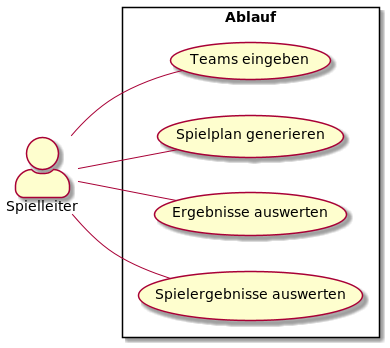
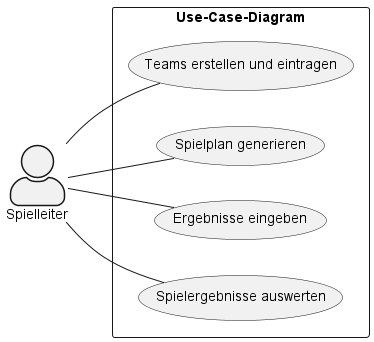
pelzeder-readme-überarbeitet

diff --git a/README.md b/README.md
@@ -1,29 +1,49 @@
+# LeoCompetition 
+
+## Turnierverwaltung ohne Papier
+
+![alt test](/asciidocs/images/Leocompfrontend.png)
+
+LeoCompetition ist ein Turnierverwaltungsprogramm,
+welches die Planung, Durchführung und Auswertung eines Turniers erleichtert.
+Momentan wird die Turniersimulierung durch UnitTests und Cypress Tests durchgeführt.
+
+## Use-Case Diagram 
+
+![alt test](/asciidocs/images/use_case.png)
+
+## Links
+
 Repository: https://github.com/htl-leonding-project/2022-4ahif-leo-competition
 
-gh-pages: https://htl-leonding-project.github.io/2022-4ahif-leo-competition/
+GitHub-Pages: https://htl-leonding-project.github.io/2022-4ahif-leo-competition/
 
 YouTrack: https://vm81.htl-leonding.ac.at/projects/2ff43c91-dfb6-41f1-a53c-055d062b0a93
 
-## Starting Cypress
+## Cypress
+
+<details>
+    <summary>Install Cypress</summary>
+
+    npm install --save-dev cypress
+    npm install -D cypress-slow-down
+
+</details>
+
+<details>
+    <summary>Start Cypress</summary>
 
 1. Start DerbyDb
 2. Start Quarkus App
 3. Start Angular App
-4. Install Cypress with
-
-```
-npm install --save-dev cypress
-npm install -D cypress-slow-down
-```
-
-5. Start Cypress with
-
+4. Start Cypress with
 ```
 npx cypress open
 ```
+</details>
 
-## Using Cypress
-
+<details>
+    <summary>Use Cypress</summary>
 1. Select E2E Testing
 
 ![](/asciidocs/images/Cypress01.PNG)
@@ -39,3 +59,5 @@ npx cypress open
 4. The Test is finished
 
 ![](/asciidocs/images/Cypress04.PNG)
+
+</details>
